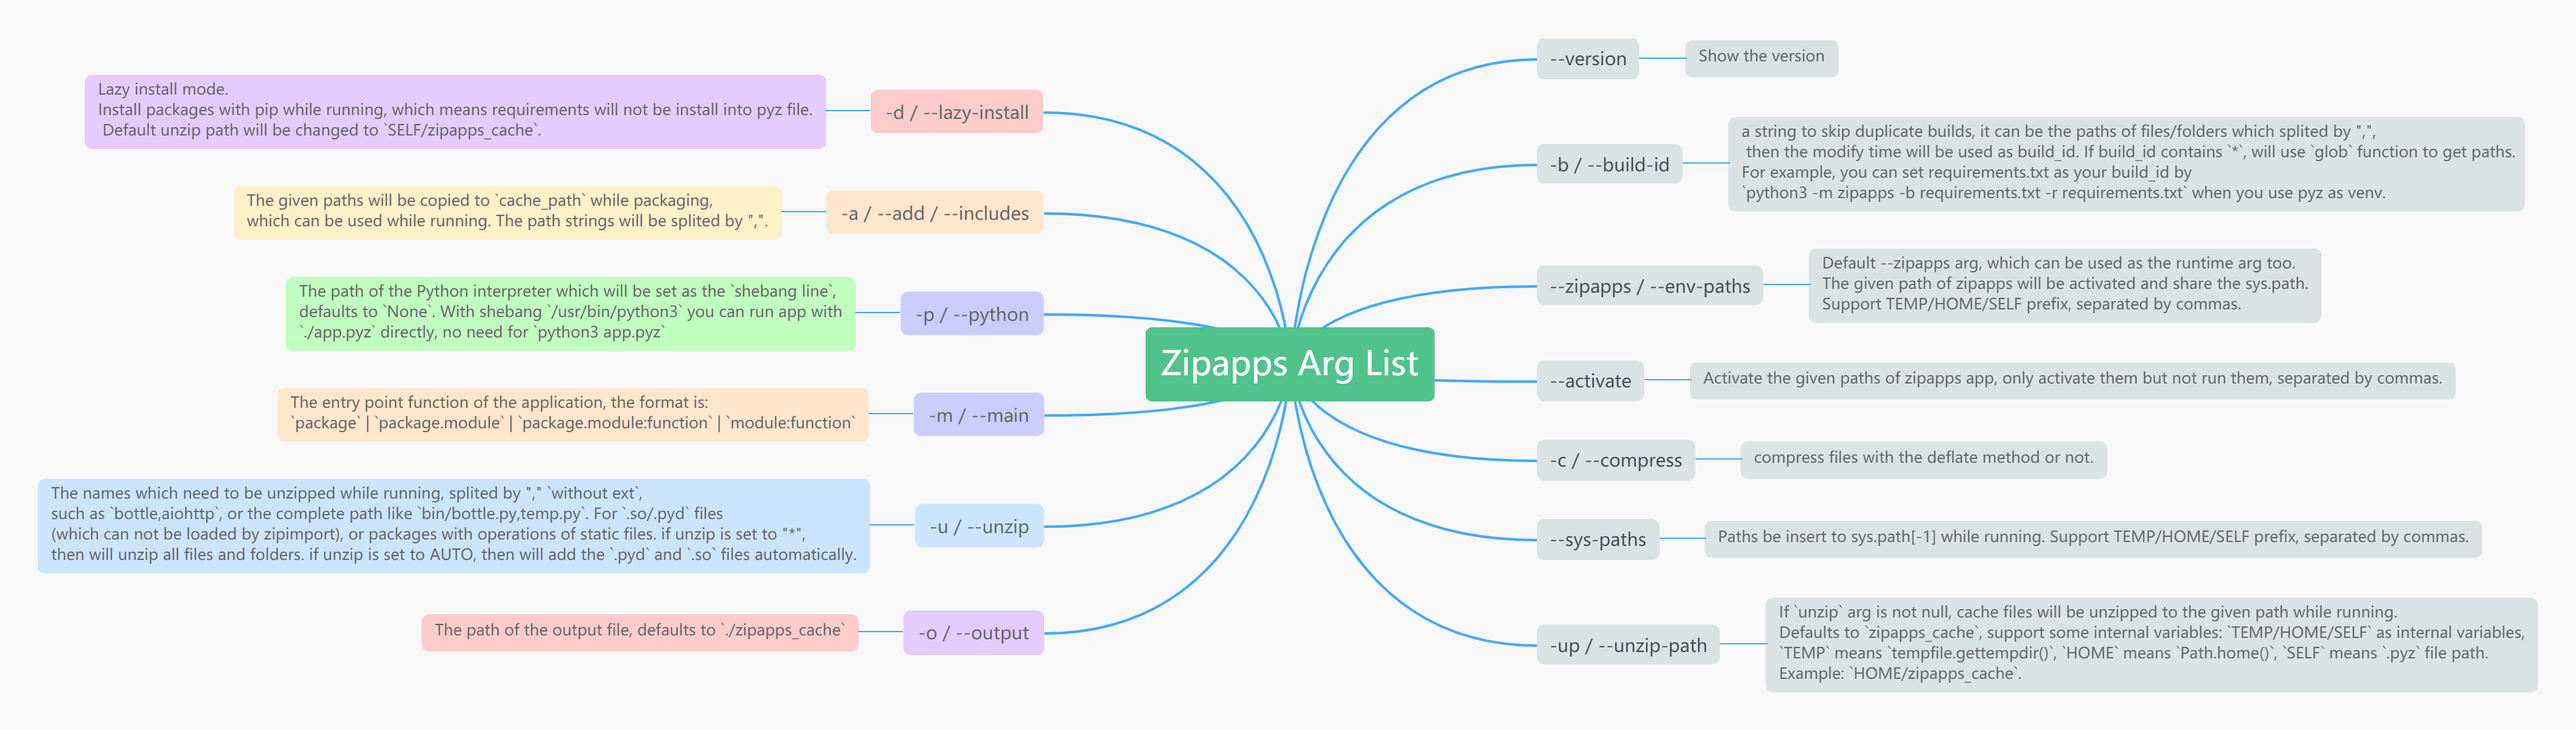
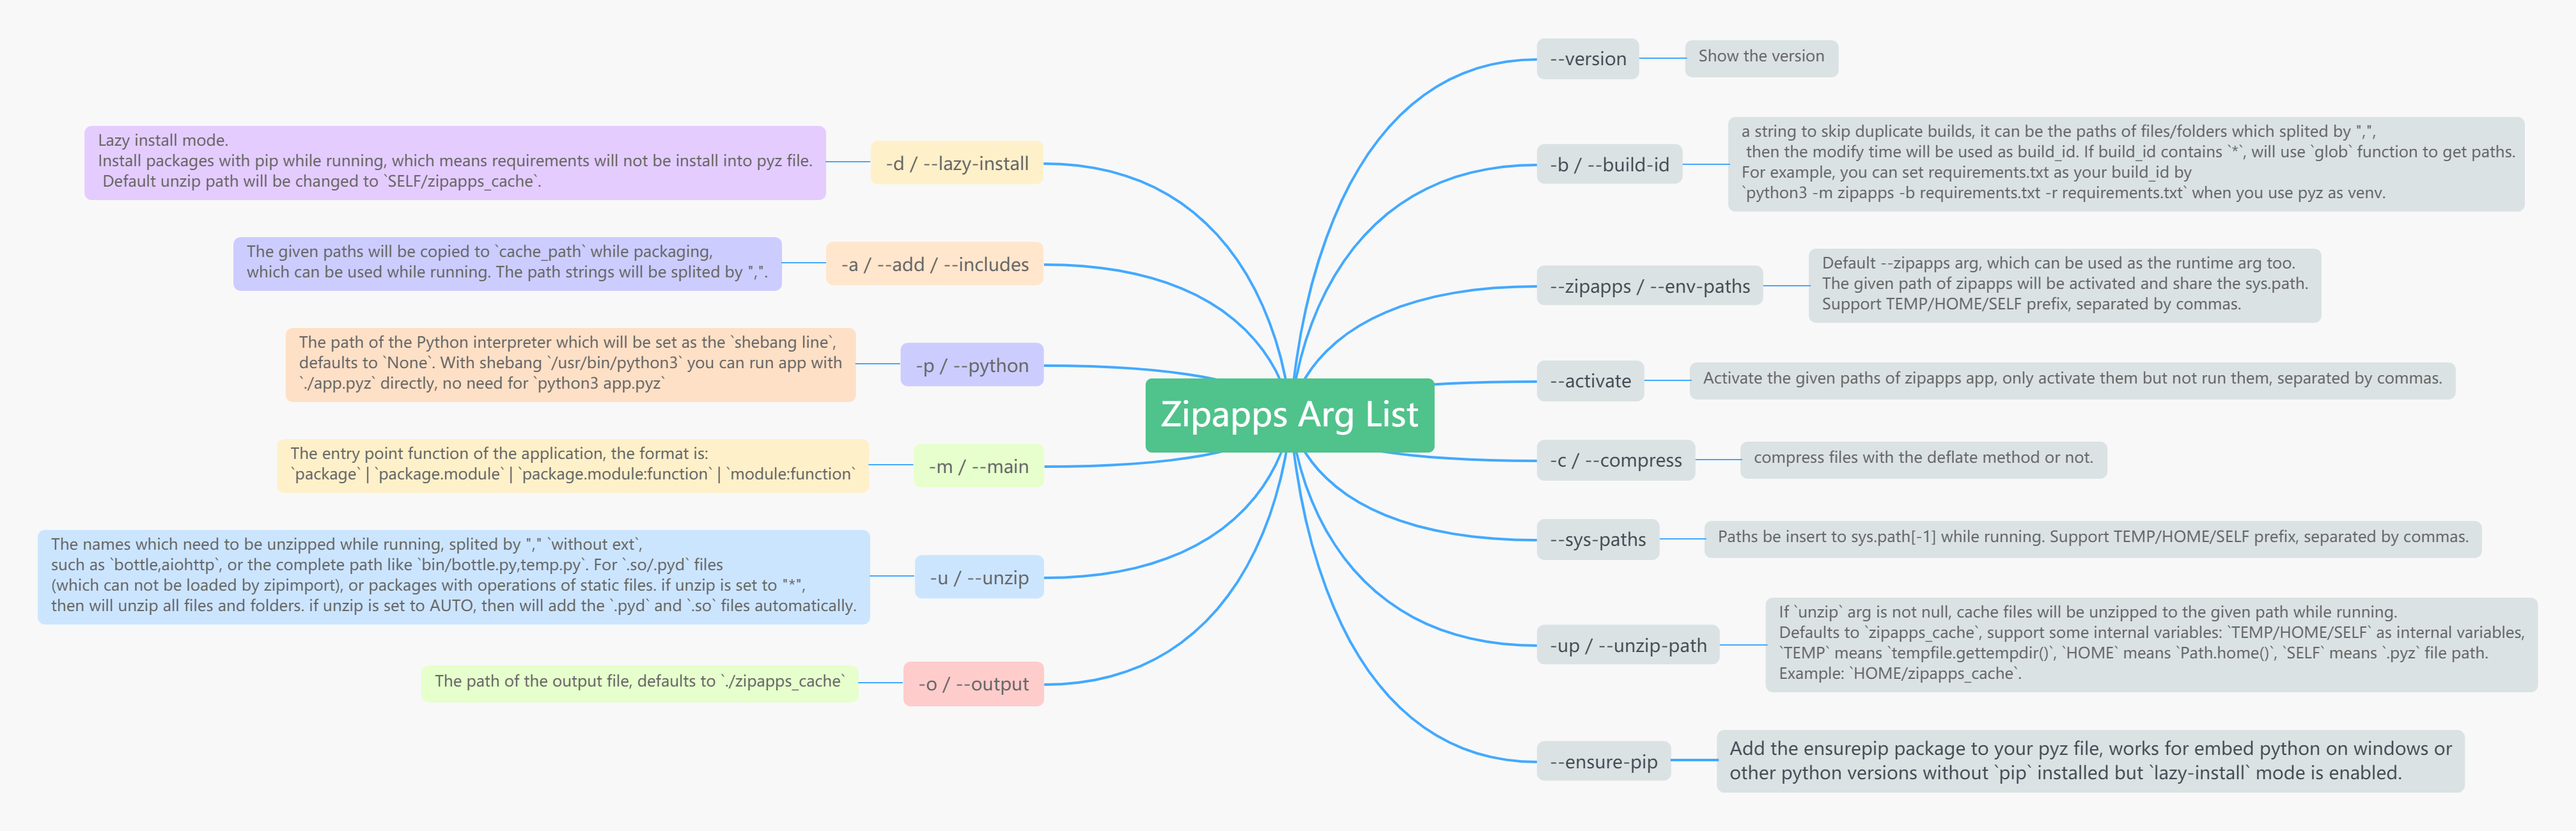
add arg `--ensure-pip`

diff --git a/zipapps/main.py b/zipapps/main.py
@@ -15,7 +15,7 @@ from pathlib import Path
 from pkgutil import get_data
 from zipfile import BadZipFile, ZipFile
 
-__version__ = '2021.04.27'
+__version__ = '2021.04.29'
 
 
 class ZipApp(object):
@@ -47,6 +47,7 @@ class ZipApp(object):
         lazy_install: bool = False,
         sys_paths: str = '',
         python_version_slice: int = 2,
+        ensure_pip: bool = False,
     ):
         """Zip your code.
 
@@ -86,6 +87,8 @@ class ZipApp(object):
         :type sys_paths: str, optional
         :param python_version_slice: Only work for lazy-install mode, then `pip` target folders differ according to sys.version_info[:_slice], defaults to 2, which means 3.8.3 equals to 3.8.4 for same version accuracy 3.8, defaults to 2
         :type python_version_slice: int, optional
+        :param ensure_pip: Add the ensurepip package to your pyz file, works for embed-python(windows) or other python versions without `pip` installed but `lazy-install` mode is enabled.
+        :type includes: bool, optional
         """
         self.includes = includes
         self.cache_path = cache_path
@@ -106,6 +109,7 @@ class ZipApp(object):
         self.lazy_install = lazy_install
         self.sys_paths = sys_paths
         self.python_version_slice = python_version_slice
+        self.ensure_pip = ensure_pip
 
         self._tmp_dir: tempfile.TemporaryDirectory = None
         self._build_success = False
@@ -142,6 +146,13 @@ class ZipApp(object):
             f'[INFO]: output path is `{self._output_path}`, you can reset it with the arg `output`.'
         )
 
+    def prepare_ensure_pip(self):
+        if self.ensure_pip:
+            import ensurepip
+            ensurepip_dir_path = Path(ensurepip.__file__).parent
+            shutil.copytree(str(ensurepip_dir_path.absolute()),
+                            self._cache_path / ensurepip_dir_path.name)
+
     def build(self):
         self._log(
             f'{"=" * 10} Start building `{self._output_path}` with zipapps version <{__version__}> {"=" * 10}'
@@ -150,6 +161,7 @@ class ZipApp(object):
         if self.build_exists():
             return self._output_path
         self.prepare_includes()
+        self.prepare_ensure_pip()
         self.prepare_pip()
         self.prepare_entry_point()
         if self.build_id_name:

diff --git a/zipapps/ensure_zipapps_template.py b/zipapps/ensure_zipapps_template.py
@@ -95,18 +95,29 @@ def prepare_path():
                     _pip_target.mkdir(parents=True, exist_ok=True)
                     try:
                         import pip
+                        shell_args = [
+                            sys.executable, '-m', 'pip', 'install', '--target',
+                            lazy_pip_dir_str
+                        ] + pip_args
+                        import subprocess
+                        with subprocess.Popen(shell_args,
+                                              cwd=_cache_folder_path_str,
+                                              stdout=sys.stderr) as proc:
+                            proc.wait()
                     except ImportError:
+                        # try installing pip
+                        cwd = os.getcwd()
+                        os.chdir(_cache_folder_path_str)
                         import ensurepip
-                        ensurepip.bootstrap()
-                    import subprocess
-                    shell_args = [
-                        sys.executable, '-m', 'pip', 'install', '--target',
-                        lazy_pip_dir_str
-                    ] + pip_args
-                    with subprocess.Popen(shell_args,
-                                          cwd=_cache_folder_path_str,
-                                          stdout=sys.stderr) as proc:
-                        proc.wait()
+                        assert ensurepip._bootstrap(root=lazy_pip_dir_str) == 0
+                        for _path in _pip_target.glob('**/pip/'):
+                            if _path.is_dir():
+                                sys.path.append(str(_path.parent.absolute()))
+                                break
+                        import pip
+                        args = ['install', '-t', lazy_pip_dir_str] + pip_args
+                        pip.main(args)
+                        os.chdir(cwd)
                     # avoid duplicated installation
                     (_pip_target / pip_args_md5).touch()
     sep = ';' if sys.platform == 'win32' else ':'

diff --git a/zipapps/__main__.py b/zipapps/__main__.py
@@ -161,7 +161,8 @@ def main():
         action='store_true',
         dest='lazy_install',
         help='Install packages with pip while running, which means '
-        'requirements will not be install into pyz file. Default unzip path will be changed to `SELF/zipapps_cache`')
+        'requirements will not be install into pyz file. Default unzip path will be changed to `SELF/zipapps_cache`'
+    )
     parser.add_argument(
         '-pva',
         '--python-version-accuracy',
@@ -185,6 +186,13 @@ def main():
         dest='activate',
         help='Activate the given paths of zipapps app, '
         'only activate them but not run them, separated by commas.')
+    parser.add_argument(
+        '--ensure-pip',
+        action='store_true',
+        dest='ensure_pip',
+        help='Add the ensurepip package to your pyz file, works for '
+        'embed-python(windows) or other python versions without `pip`'
+        ' installed but `lazy-install` mode is enabled. [EXPERIMENTAL]')
     if len(sys.argv) == 1:
         return parser.print_help()
     args, pip_args = parser.parse_known_args()
@@ -212,6 +220,7 @@ def main():
         lazy_install=args.lazy_install,
         sys_paths=args.sys_paths,
         python_version_slice=int(args.python_version_slice),
+        ensure_pip=args.ensure_pip,
     )
 
 

diff --git a/README.md b/README.md
@@ -7,11 +7,13 @@ Package your python code (with requirements) into a standalone zip file.
 
 Inspired by [shiv](https://github.com/linkedin/shiv) but unlike `shiv`
 
-1. zipapps may not unzip cache when without any C language-based library or dynamic modules(`.so/.pyd`), such as `requests`, `bottle`, or your own pure python code.
-2. cache path to unzip is `./zipapps_cache` by default, not the `HOME` path.
-3. the cache folders will be reused for the same app name, not like shiv to create many new versions and use much disk space.
-4. you can install requirements with `pip` while first running(not packaging) by lazy install mode, for cross-platform publishing and reducing your `.pyz` file size.
-5. combine multiple `venv.pyz` files for your code flexibly.
+1. `zipapps` may not create the cache folder while your package has no C language-based libraries or dynamic modules(`.so/.pyd`), such as `requests`, `bottle` or other pure python codes.
+2. The default cache path is `./zipapps_cache`, but not the `HOME` path.
+3. The cache folders will be reused for the `same app name`, not to create many new versions and use much disk space.
+4. You can install requirements with `pip` while first running(not packaging) by `lazy install` mode, for cross-platform publishing and reducing your `.pyz` file size.
+5. Using multiple `venv.pyz` files together.
+
+[Changelog.md](https://github.com/ClericPy/zipapps/blob/master/changelog.md)
 
 # What is the `.pyz`?
 
@@ -397,7 +399,9 @@ Details:
     1.  Default `--zipapps` arg if it is not given while running. Support TEMP/HOME/SELF prefix.
 16. `--delay, -d, --lazy-pip, --lazy-install, --lazy-pip-install`
     1.  Install packages with pip while first running, which means requirements will not be install into pyz file.
-17. all the other (or `unknown`) args will be used by "pip install"
+17. `--ensure-pip`
+    1.  Add the ensurepip package to your pyz file, works for **embed-python**(windows) or other python versions without `pip` installed but `lazy-install` mode is enabled. [EXPERIMENTAL]
+18. all the other (or `unknown`) args will be used by "pip install"
     1.  such as `-r requirements.txt`
     2.  such as `bottle aiohttp`
     3.  the `pip_args` arg of `zipapps.create_app`
@@ -440,5 +444,3 @@ Details:
       1. `import sys;sys.path.insert(0, 'app.pyz')` (without .so/.pyd)
       2. `python3 app.pyz script.py`
    7. Other usages need to be found, and enjoy yourself.
-
-# [Changelog.md](https://github.com/ClericPy/zipapps/blob/master/changelog.md)

diff --git a/changelog.md b/changelog.md
@@ -1,6 +1,8 @@
 
 # Changelogs
 
+- 2021.04.29
+  - add arg `--ensure-pip` for embed-python(windows) or other python versions which have no `pip` installed but `lazy-install` mode is enabled.
 - 2021.04.24
   - remove conflict command args with `pip`
     - remove `--compile` arg, it will only work for `pip`
